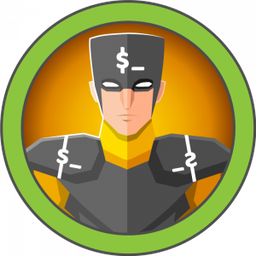
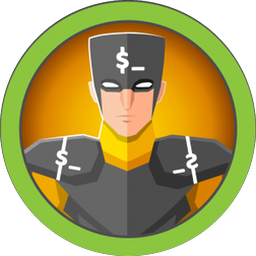
Iconos de máquina: círculos limpios y uniformes + pulido de tarjetas
Varios iconos (Cap, Postman, Keeper) arrastraban un trozo del texto
"You have solved…" del banner de origen, visible al recortarlos en círculo.
Se reprocesan los 25 iconos: se recortan ajustados al aro verde del badge y
se enmascaran a un círculo con fondo transparente, de modo que todos quedan
iguales, sin halos oscuros ni texto, nítidos en claro y oscuro. Cronos (sin
aro verde) se enmascara a círculo centrado para que combine.

Además, pulido profesional de las tarjetas de la galería: superficie con
gradiente sutil, borde y sombra más finos, acento superior al pasar el ratón
y sombra del icono siguiendo el círculo.

Claude-Session: https://claude.ai/code/session_01QUgkYiz7fPLYdAFmuZxYDb

diff --git a/docs/stylesheets/extra.css b/docs/stylesheets/extra.css
@@ -370,29 +370,46 @@ a, .md-nav__link, .md-button, .md-typeset .md-button,
   margin: 1.2rem 0;
 }
 .md-typeset .maq-card {
+  position: relative;
   display: flex;
   flex-direction: column;
   align-items: center;
   text-align: center;
-  gap: .5rem;
-  padding: 1.1rem .7rem .9rem;
-  border-radius: .9rem;
+  gap: .55rem;
+  padding: 1.3rem .8rem 1rem;
+  border-radius: 1rem;
   text-decoration: none;
   color: inherit;
   border: 1px solid var(--md-default-fg-color--lightest);
-  background: var(--md-default-bg-color);
+  background:
+    linear-gradient(180deg,
+      color-mix(in srgb, var(--brand-1) 4%, var(--md-default-bg-color)),
+      var(--md-default-bg-color));
+  box-shadow: 0 .1rem .4rem rgba(15, 23, 42, .05);
+  overflow: hidden;
   transition: transform .2s ease, box-shadow .2s ease, border-color .2s ease;
+}
+/* Acento superior sutil que aparece al pasar el ratón */
+.md-typeset .maq-card::before {
+  content: "";
+  position: absolute;
+  inset: 0 0 auto 0;
+  height: 3px;
+  background: linear-gradient(90deg, var(--brand-1), var(--brand-3));
+  opacity: 0;
+  transition: opacity .2s ease;
 }
 .md-typeset .maq-card:hover {
   transform: translateY(-6px);
-  box-shadow: 0 .7rem 1.6rem rgba(79, 70, 229, .22);
+  box-shadow: 0 .8rem 1.8rem rgba(79, 70, 229, .2);
   border-color: var(--md-accent-fg-color);
 }
+.md-typeset .maq-card:hover::before { opacity: 1; }
 .md-typeset .maq-card__ico {
-  width: 92px;
-  height: 92px;
+  width: 96px;
+  height: 96px;
   border-radius: 50%;
-  box-shadow: 0 .3rem .8rem rgba(0, 0, 0, .25);
+  filter: drop-shadow(0 .3rem .7rem rgba(0, 0, 0, .3));
 }
 .md-typeset .maq-card__nombre { font-weight: 700; font-size: .95rem; }
 .md-typeset .maq-card__meta {
